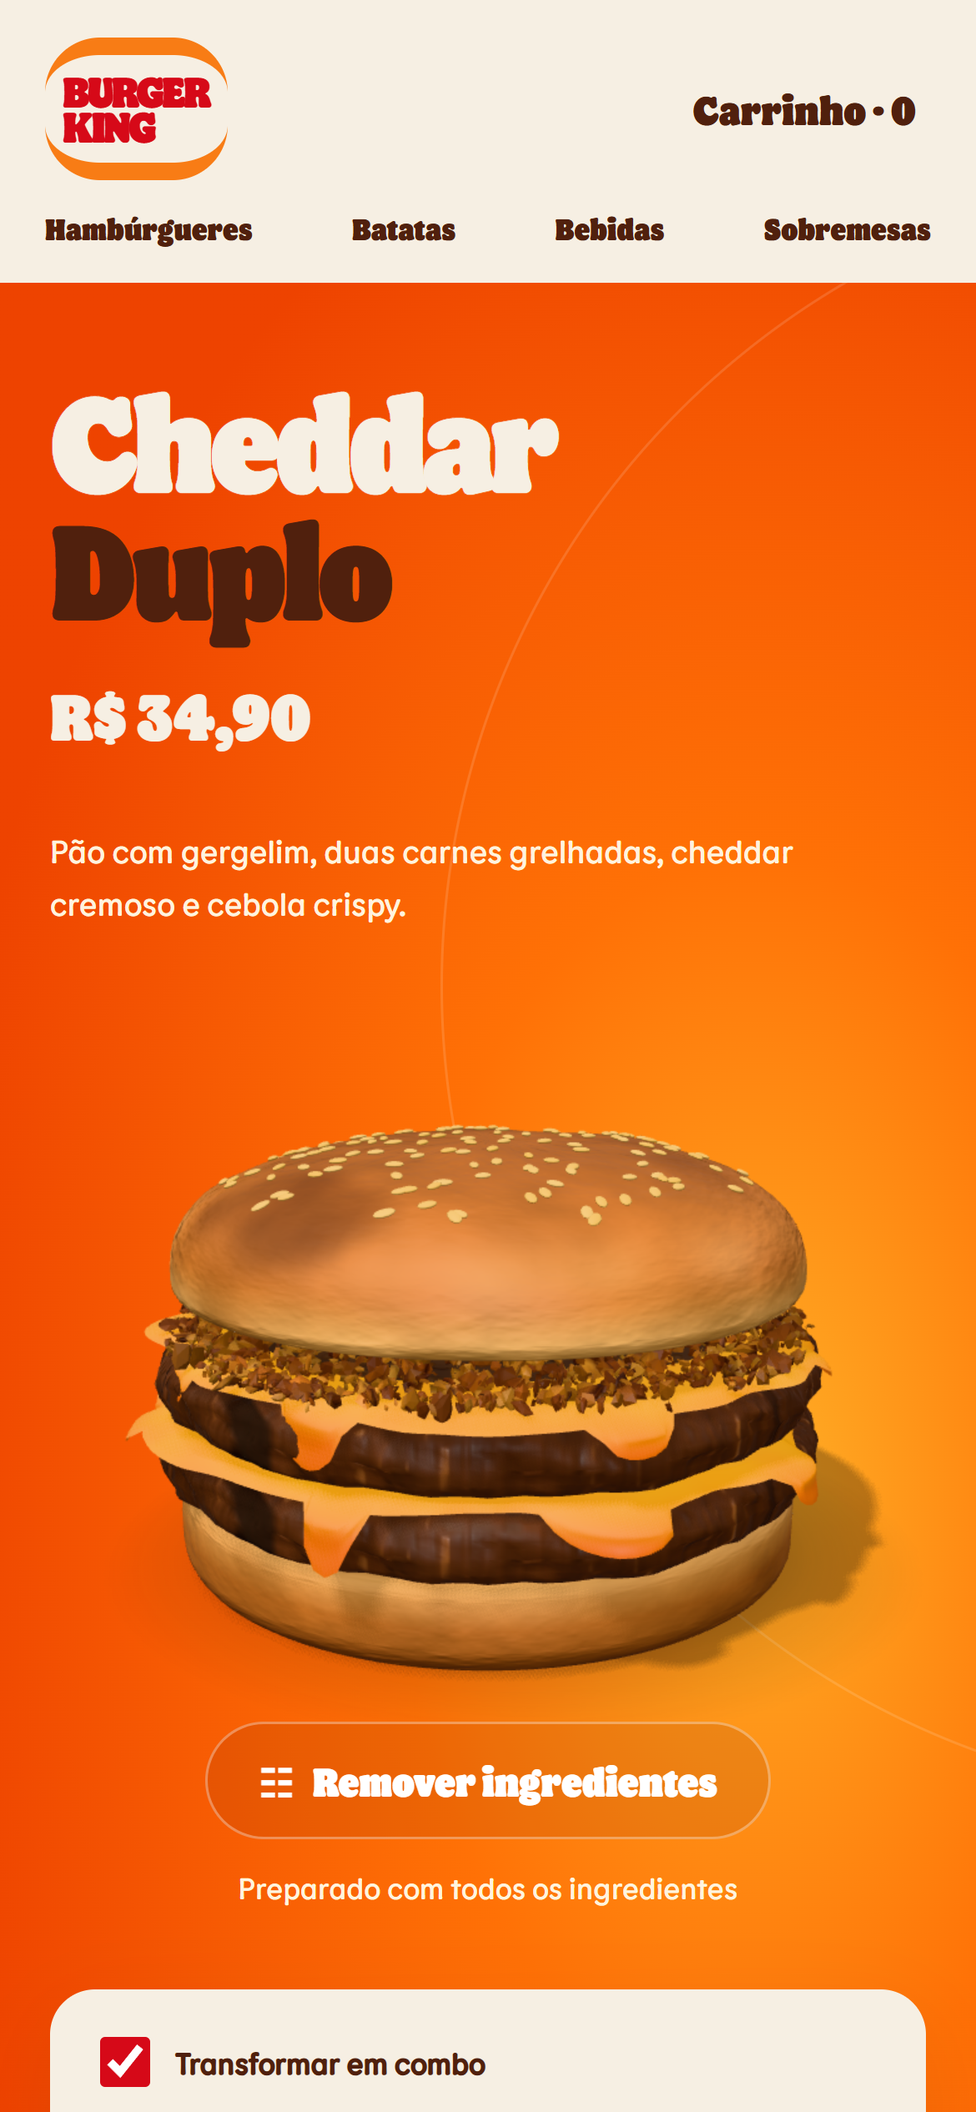
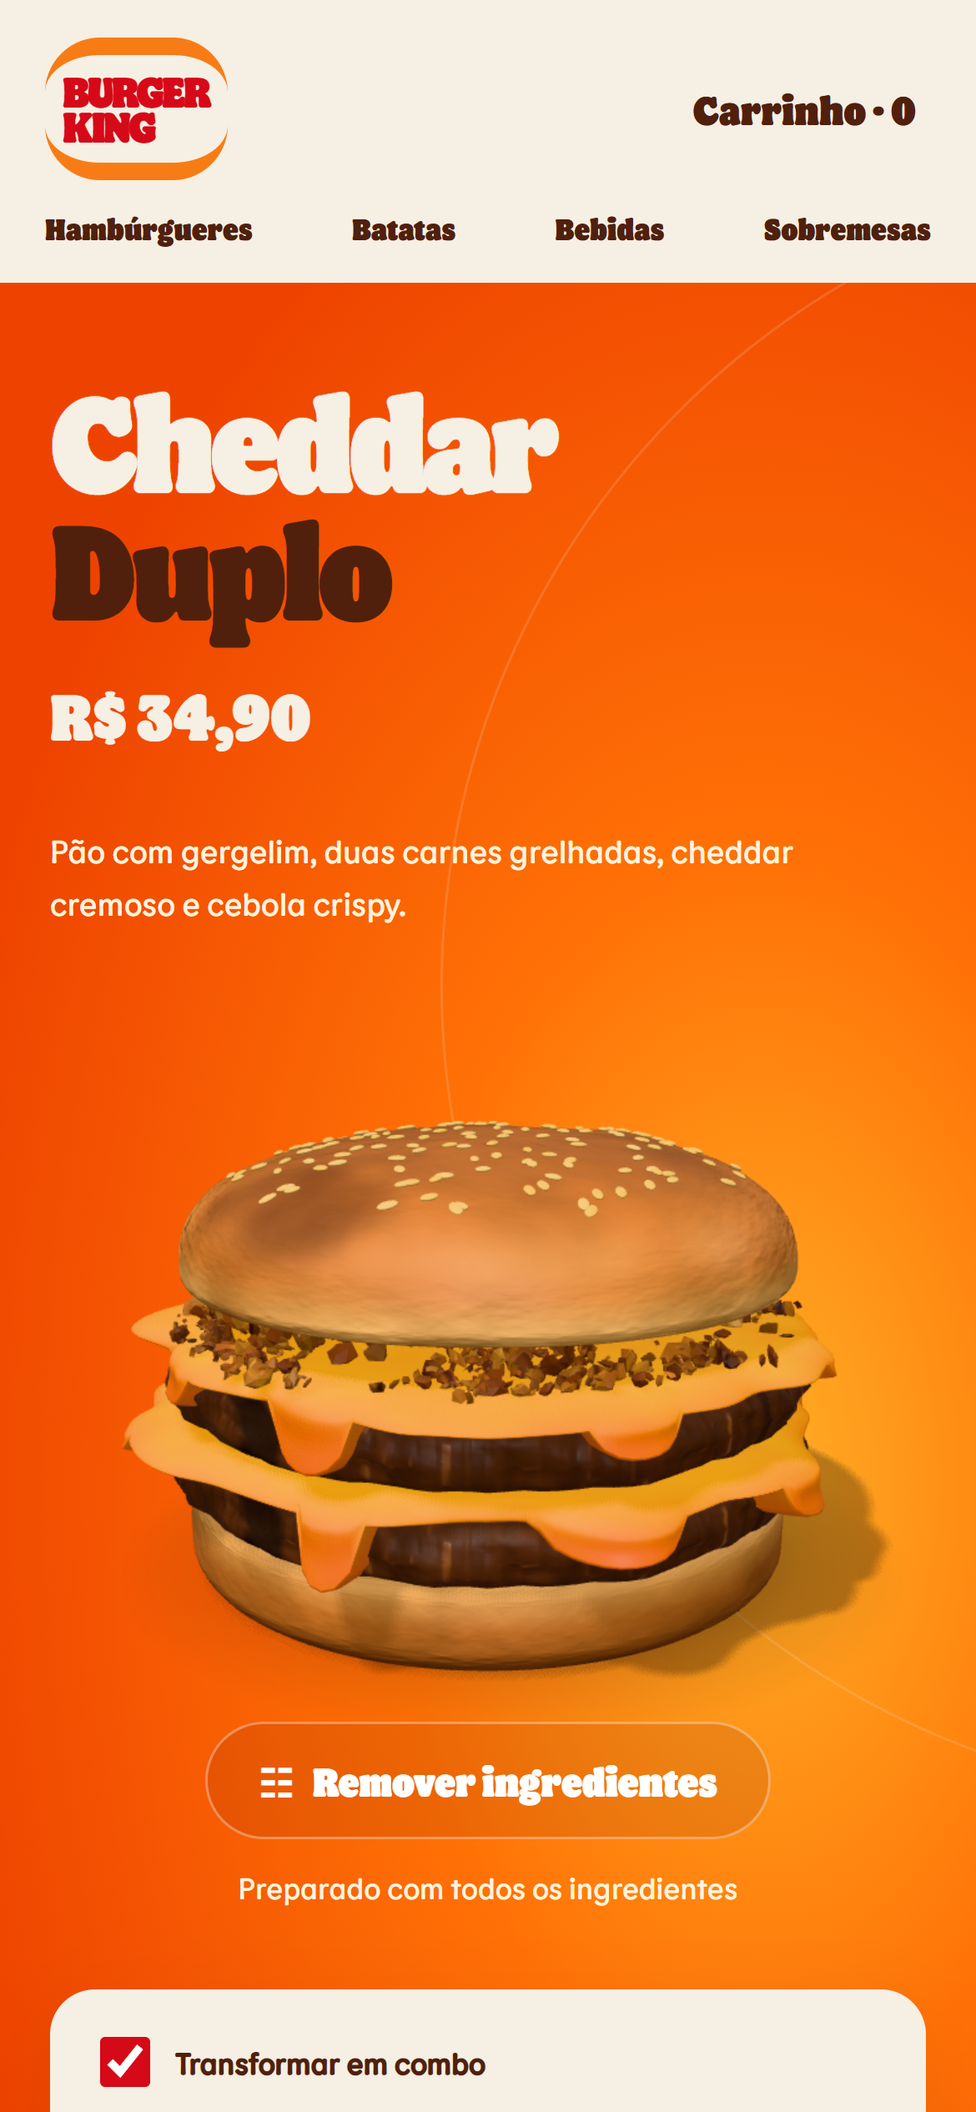
feat: thicker cheddar and gappier crispy onion (ticket 04 review, round 2)
Product owner feedback: the cheddar was too thin, and the crispy onion too evenly
filled, which read as fake.

- cheddar: a thick soft slab (Camada height 0.035 -> 0.07) with a fat rounded lip
  rolling over the patty; wider, thicker drips with blunt rounded tips that curl
  back in; lumpy outline, overhang and per-Camada seed kept. 13.8k triangles
  (was 13.1k).
- crispyOnion: ~1700 pieces (was 3800) gathered in clumps by a noise mask, with
  bare patches where the cheddar shows through; dark floor disc removed.
  36.8k triangles (was 82.2k).
- SVG fallback: thicker cheddar, gaps between the onion crumbs.

Whopper captures identical (16 captures, max diff 0). New captures and
side-by-side sheet in .scratch/cheddar-duplo/capturas/04/. Ticket 04 stays open.

Changed region(s): [[0.1231, 0.5616, 0.9231, 0.78], [0.2154, 0.5304, 0.7692, 0.5928], [0.6462, 0.78, 0.7385, 0.8112]]

diff --git a/prototype/src/scene/layer-models.js b/prototype/src/scene/layer-models.js
@@ -468,32 +468,36 @@ function onion() {
   return single(group);
 }
 
-// Cheddar (Cheddar Duplo): creamy melted cheddar sauce, more orange and more liquid than the
-// Whopper's slice. A glossy sheet over the patty that rolls over its edge and runs down the
-// side in long rounded drips. One grid around the burger: rings over the top, then a curtain
-// hanging from the rim, whose length by angle is the drips' outline. The outline is lumpy,
-// not round, and overhangs the patty more in some places than others. Each Camada (cheddar1,
-// cheddar2) gets its own outline and drips, from a seed fixed by its id.
-const CHEDDAR_HEIGHT = 0.035;
-const CHEDDAR_ROLL = 0.05; // drop over which the sauce rolls out over the patty's rounded edge
+// Cheddar (Cheddar Duplo): a thick slab of soft melted cheddar, more orange and more liquid
+// than the Whopper's slice. A glossy body over the patty whose edge is a fat rounded lip that
+// rolls over the patty's edge and runs down the side in thick rounded drips. One grid around
+// the burger: rings over the top, then a curtain from the rim (the lip, then the drips), whose
+// length by angle is the drips' outline; the curtain curls back in at its tip, so the edge
+// reads as a body, not a sheet. The outline is lumpy, not round, and overhangs the patty more
+// in some places than others. Each Camada (cheddar1, cheddar2) gets its own outline and
+// drips, from a seed fixed by its id.
+const CHEDDAR_HEIGHT = 0.07;
+const CHEDDAR_ROLL = 0.06; // drop over which the sauce rolls out over the patty's rounded edge
+const CHEDDAR_LIP = 0.032; // radius of the rounded lip at the slab's edge
 function cheddar(camada = {}) {
   const seed = [...(camada.id ?? 'cheddar')].reduce((h, c) => (h * 31 + c.charCodeAt(0)) % 9973, 7);
   const rnd = random(seed);
   const count = 8;
   const drips = Array.from({ length: count }, (_, k) => ({
     a: ((k + 0.15 + rnd() * 0.7) / count) * Math.PI * 2,
-    width: 0.07 + rnd() * 0.08, // half-width, radians (~1-2 cm at the patty's edge)
-    length: 0.06 + rnd() ** 1.3 * 0.12,
+    width: 0.08 + rnd() * 0.09, // half-width, radians (~1-2 cm at the patty's edge)
+    length: 0.07 + rnd() ** 1.3 * 0.14,
   }));
+  const base = 2 * CHEDDAR_LIP + 0.012; // the lip's own drop, where there is no drip
   /** Hang below the rim and outward bulge (the drip's bead) at angle a. */
   const run = (a) => {
-    let hang = 0.022, bead = 0;
+    let hang = base, bead = 0;
     for (const d of drips) {
       const t = Math.atan2(Math.sin(a - d.a), Math.cos(a - d.a)) / d.width;
       if (Math.abs(t) >= 1) continue;
       const k = 1 - t * t;
-      hang = Math.max(hang, 0.022 + d.length * Math.sqrt(k)); // rounded tip
-      bead = Math.max(bead, 0.016 * k);
+      hang = Math.max(hang, base + d.length * k ** 0.35); // blunt, rounded tip
+      bead = Math.max(bead, 0.03 * k);
     }
     return { hang, bead };
   };
@@ -503,7 +507,9 @@ function cheddar(camada = {}) {
   const rim = (a) => 1 + 0.09 * wave(a, 1.3, 3, 0) + 0.05 * wave(a, 2.7, 2, 7) + 0.03 * wave(a, 5, 2, 3);
   const spread = (a) => smoothstep(-0.45, 0.45, wave(a, 1.8, 2, 5));
 
-  const segments = 192, top = 16, curtain = 18;
+  // Curtain rows: `lipRows` over the lip, `tipRows` over the curled tip, the rest between.
+  const segments = 192, top = 16, lipRows = 6, tipRows = 6, curtain = lipRows + 8 + tipRows;
+  const shoulder = 0.008;
   const positions = [], colours = [], indices = [];
   const colour = new Color();
   for (let i = 0; i <= top + curtain; i++)
@@ -513,19 +519,28 @@ function cheddar(camada = {}) {
       const edge = rim(a);
       let r, y, drop = 0;
       if (i <= top) {
-        // The sheet: nearly flat, pooled ripples, sloping just before the rim.
+        // The top: nearly flat, pooled ripples, a soft shoulder just before the rim.
         const f = i / top;
         r = edge * f;
-        const ripple = 0.007 * (fbm(c * r * 4 + seed, s * r * 4, 0, { octaves: 2, seed: 73 }) - 0.5) * 2;
-        y = CHEDDAR_HEIGHT + ripple * (1 - f) - 0.012 * smoothstep(0.75, 1, f);
+        const ripple = 0.009 * (fbm(c * r * 4 + seed, s * r * 4, 0, { octaves: 2, seed: 73 }) - 0.5) * 2;
+        y = CHEDDAR_HEIGHT + ripple * (1 - f) - shoulder * smoothstep(0.8, 1, f);
       } else {
-        // The curtain: rolls outward over the edge, then hangs straight.
+        // The curtain: a fat rounded lip that rolls outward over the edge, hangs down in the
+        // drips, swells into a bead and curls back in under itself at the tip.
         const { hang, bead } = run(a);
-        drop = ((i - top) / curtain) * hang;
+        const tip = Math.min(CHEDDAR_LIP * 1.3, hang * 0.45);
+        const k = i - top;
+        drop = k <= lipRows
+          ? (k / lipRows) * CHEDDAR_LIP
+          : k >= curtain - tipRows
+            ? hang - tip + ((k - (curtain - tipRows)) / tipRows) * tip
+            : CHEDDAR_LIP + ((k - lipRows) / (curtain - tipRows - lipRows)) * (hang - tip - CHEDDAR_LIP);
+        const lip = CHEDDAR_LIP * Math.sin(Math.min(drop / CHEDDAR_LIP, 1) * (Math.PI / 2));
         const out = (0.015 + 0.13 * spread(a) + bead) * Math.sin(Math.min(drop / CHEDDAR_ROLL, 1) * (Math.PI / 2));
-        // Thinning to a rounded bead at the tip.
-        r = edge + out + bead * 0.6 * smoothstep(hang * 0.6, hang, drop);
-        y = CHEDDAR_HEIGHT - 0.012 - drop;
+        const swell = bead * 0.7 * smoothstep(hang * 0.5, hang - tip * 0.5, drop);
+        const curl = Math.cos(smoothstep(hang - tip, hang, drop) * (Math.PI / 2));
+        r = edge + (lip + out + swell) * curl;
+        y = CHEDDAR_HEIGHT - shoulder - drop;
       }
       positions.push(c * r, y, s * r);
       // Deeper orange where it runs thick, slightly yellower thin over the top; mottled.
@@ -558,10 +573,9 @@ function cheddar(camada = {}) {
 
 // Cebola crispy (Cheddar Duplo): a loose heap of fried onion crumbs and short curled
 // strands under the top bun, golden to dark brown. No continuous body: the heap is only
-// pieces, stacked in a few loose tiers, so the silhouette is ragged, light shows through
-// the gaps and some bits spill over the rim onto the cheddar. A small dark disc well
-// inside the rim stands in for the shadow at the bottom of the heap (and keeps the Camada
-// solid to the eye from above). Pieces are indexed low-poly solids drawn flat-shaded,
+// pieces, gathered in clumps with bare patches between them where the cheddar below shows
+// through (not an even carpet), stacked in loose tiers, so the silhouette is ragged and
+// some bits spill over the rim onto the cheddar. Pieces are indexed low-poly solids drawn flat-shaded,
 // sharing one material (texture x vertex colour), baked into one mesh.
 const CRISPY_ONION_HEIGHT = 0.12;
 function crispyOnion() {
@@ -572,6 +586,8 @@ function crispyOnion() {
   // Top of the heap at a radius fraction: domed, lumpy, thinning out towards the rim.
   const lump = (x, z) => fbm(x * 4 + 3, z * 4, 0, { octaves: 2, seed: 102 });
   const top = (x, z, f) => (0.05 + 0.04 * (1 - f * f) + 0.03 * (lump(x, z) - 0.5)) * smoothstep(1.08, 0.7, f);
+  // Where the pieces gather (1) and where the cheddar below shows through (0).
+  const clump = (x, z) => smoothstep(0.3, 0.46, fbm(x * 2.6 + 7, z * 2.6, 0, { octaves: 3, seed: 103 }));
 
   // Index-only templates (shared corners): a crumb is a jagged icosahedron, a strand a thin
   // curled tube; both are re-shaped per piece.
@@ -603,31 +619,28 @@ function crispyOnion() {
     pieces.push(geometry);
   };
 
-  // Shadow at the bottom of the heap, hidden under the pieces.
-  const floor = polarSheet({ rings: 4, segments: 40, uvRadius: 1, edge: (a) => edge(a) * 0.8, lift: () => 0.012 }).deleteAttribute('normal');
-  const index = floor.index.array;
-  for (let i = 0; i < index.length; i += 3) [index[i + 1], index[i + 2]] = [index[i + 2], index[i + 1]];
-  floor.setAttribute('color', new BufferAttribute(new Float32Array(floor.attributes.position.count * 3).map((_, i) => [0.09, 0.04, 0.015][i % 3]), 3));
-  pieces.push(floor);
-
-  for (let k = 0; k < 3800; k++) {
+  for (let placed = 0; placed < 1700; ) {
     const a = rnd() * Math.PI * 2;
     const rim = edge(a);
     // Uniform over the disc; one in eight lands past the rim and slumps down onto the cheddar.
     const spill = rnd() < 0.12;
     const f = spill ? 0.93 + rnd() * 0.12 : Math.sqrt(rnd()) * 0.97;
     const x = Math.cos(a) * rim * f, z = Math.sin(a) * rim * f;
-    const height = Math.max(top(x, z, f), 0.012);
+    // Clumps and bare patches: where the mask is low, few or no pieces land.
+    const m = clump(x, z);
+    if (rnd() > m) continue;
+    placed++;
+    const height = Math.max(top(x, z, f) * (0.35 + 0.65 * m), 0.012);
     // Anywhere from the bottom of the heap to its top (more of them near the top).
     const t = spill ? rnd() * 0.4 : Math.sqrt(rnd());
     const y = 0.008 + (height - 0.008) * t;
     const strand = rnd() < 0.4;
     turn.set((rnd() - 0.5) * (strand ? 1.6 : Math.PI), rnd() * Math.PI * 2, (rnd() - 0.5) * (strand ? 1.6 : Math.PI));
     if (strand) {
-      const radius = 0.02 + rnd() * 0.028;
+      const radius = 0.022 + rnd() * 0.03;
       size.set(radius, radius * (0.45 + rnd() * 0.3), radius);
     } else {
-      const s = 0.013 + rnd() ** 2 * 0.024;
+      const s = 0.015 + rnd() ** 2 * 0.026;
       size.set(s * (0.8 + rnd() * 0.6), s * (0.35 + rnd() * 0.3), s * (0.8 + rnd() * 0.6));
     }
     place(strand ? strandBase : crumbBase, Math.min(y, CRISPY_ONION_HEIGHT - 0.015), x, z, 1 - t, !strand);

diff --git a/prototype/src/art.js b/prototype/src/art.js
@@ -3,8 +3,9 @@ const svg=(body)=>`<svg viewBox="0 0 420 145" aria-hidden="true"><defs><linearGr
 // Sauce drizzle shared by ketchup and maionese; only the colours differ.
 const sauce=(fill,stroke,shine)=>svg(`<path d="M28 67Q70 38 112 56Q152 33 198 53Q245 34 290 53Q346 38 392 67Q377 89 354 78Q343 106 328 80Q299 92 269 79Q238 105 218 80Q177 90 153 80Q123 106 108 79Q58 94 28 67Z" fill="${fill}" stroke="${stroke}" stroke-width="2"/><path d="M50 63Q115 51 166 63T285 63T370 64" fill="none" stroke="${shine}" stroke-width="5" stroke-linecap="round"/>`);
 // Cebola crispy: a loose heap of fried crumbs and short curled strands, no solid body: dark
-// pieces at the bottom of the heap, lighter ones on top, a few spilling past the ends.
-function crispyOnion(){let s=7;const r=()=>(s=(s*16807)%2147483647)/2147483647,cols=['#6e3a16','#8a4c1c','#a8642a','#b87430','#c98a3a','#dca04a','#eab866'];let c='';for(let i=0;i<300;i++){const t=i/300,x=26+r()*368,d=Math.abs(x-210)/184,top=88-(1-d*d)*34-r()*8,y=96-(96-top)*(.25+.75*t)+r()*4,k=Math.min(6,Math.floor(t*4+r()*3.5)),f=cols[k];if(r()<.35){const a=r()*6.3,l=8+r()*9,q=r()*10-5;c+=`<path d="M${(x-Math.cos(a)*l).toFixed(1)} ${(y-Math.sin(a)*l*.4).toFixed(1)}q${(Math.cos(a)*l+q).toFixed(1)} ${(q-3).toFixed(1)} ${(Math.cos(a)*l*2).toFixed(1)} ${(Math.sin(a)*l*.8).toFixed(1)}" fill="none" stroke="${f}" stroke-width="${(3+r()*2.2).toFixed(1)}" stroke-linecap="round"/>`;}else{const n=5,z=4.5+r()*5.5;let p='';for(let v=0;v<n;v++){const a=v/n*6.283+r()*.6,m=z*(.55+r()*.6);p+=`${v?'L':'M'}${(x+Math.cos(a)*m).toFixed(1)} ${(y+Math.sin(a)*m*.65).toFixed(1)}`;}c+=`<path d="${p}Z" fill="${f}"/>`;}}return svg(c);}
-// Cheddar (Cheddar Duplo): creamy orange sauce with rounded drips over the edge.
-function cheddar(){const drips=[[52,22],[110,34],[176,18],[238,40],[300,26],[362,30]].map(([x,l])=>`<path d="M${x-11} 78V${78+l}a11 11 0 0 0 22 0V78Z" fill="#f08a06"/>`).join('');return svg(`${drips}<path d="M14 66Q210 34 406 66Q412 80 396 84Q210 102 24 84Q8 80 14 66Z" fill="#f59a0c"/><path d="M34 64Q210 42 386 64" stroke="#ffc24a" fill="none" stroke-width="4"/>`);}
+// pieces at the bottom of the heap, lighter ones on top, a few spilling past the ends; bare
+// patches between the clumps.
+function crispyOnion(){let s=7;const r=()=>(s=(s*16807)%2147483647)/2147483647,cols=['#6e3a16','#8a4c1c','#a8642a','#b87430','#c98a3a','#dca04a','#eab866'];let c='';for(let i=0;i<300;i++){const t=i/300,x=26+r()*368,d=Math.abs(x-210)/184,top=88-(1-d*d)*34-r()*8,y=96-(96-top)*(.25+.75*t)+r()*4,k=Math.min(6,Math.floor(t*4+r()*3.5)),f=cols[k];if(Math.sin(x*.05+1.3)+Math.sin(x*.13+.4)>1.05&&t>.3)continue;if(r()<.35){const a=r()*6.3,l=8+r()*9,q=r()*10-5;c+=`<path d="M${(x-Math.cos(a)*l).toFixed(1)} ${(y-Math.sin(a)*l*.4).toFixed(1)}q${(Math.cos(a)*l+q).toFixed(1)} ${(q-3).toFixed(1)} ${(Math.cos(a)*l*2).toFixed(1)} ${(Math.sin(a)*l*.8).toFixed(1)}" fill="none" stroke="${f}" stroke-width="${(3+r()*2.2).toFixed(1)}" stroke-linecap="round"/>`;}else{const n=5,z=4.5+r()*5.5;let p='';for(let v=0;v<n;v++){const a=v/n*6.283+r()*.6,m=z*(.55+r()*.6);p+=`${v?'L':'M'}${(x+Math.cos(a)*m).toFixed(1)} ${(y+Math.sin(a)*m*.65).toFixed(1)}`;}c+=`<path d="${p}Z" fill="${f}"/>`;}}return svg(c);}
+// Cheddar (Cheddar Duplo): a thick slab of orange melted cheddar with fat rounded drips.
+function cheddar(){const drips=[[52,22],[110,34],[176,18],[238,40],[300,26],[362,30]].map(([x,l])=>`<path d="M${x-14} 84V${86+l}a14 14 0 0 0 28 0V84Z" fill="#f08a06"/>`).join('');return svg(`${drips}<path d="M14 58Q210 24 406 58Q416 80 398 92Q210 114 22 92Q4 80 14 58Z" fill="#f59a0c"/><path d="M34 56Q210 34 386 56" stroke="#ffc24a" fill="none" stroke-width="5"/>`);}
 export function art(id){if(id==='crispyOnion')return crispyOnion();if(id==='cheddar')return cheddar();if(id==='ketchup')return sauce('#c8240f','#8f1708','#f0705a');if(id==='mayo')return sauce('#fbf1d6','#dcc89a','#ffffff');if(id==='top'){let seeds='';for(let i=0;i<42;i++){const x=45+(i*73%325),y=47+(i*31%40);seeds+=`<ellipse cx="${x}" cy="${y}" rx="4" ry="1.7" fill="#ffeab1" transform="rotate(${i*47%100-50} ${x} ${y})"/>`;}return svg(`<path d="M20 109C24 4 383 4 400 109Q210 154 20 109" fill="url(#bun)"/><path d="M32 106Q210 145 388 106" fill="none" stroke="#eaa251" stroke-width="5"/>${seeds}`)}if(id==='bottom')return svg('<path d="M23 63Q210 32 397 63L390 107Q210 158 30 106Z" fill="url(#bun)"/><ellipse cx="210" cy="65" rx="187" ry="28" fill="#edaf56"/><path d="M35 101Q210 139 382 104" fill="none" stroke="#a74c15" stroke-width="5"/>');if(id==='meat')return svg('<path d="M15 63Q25 48 45 49Q80 35 109 48Q140 33 170 46Q200 34 230 44Q270 35 300 45Q350 37 397 61L405 88Q390 125 345 118Q300 133 270 120Q210 134 166 121Q120 133 87 118Q39 126 17 98Z" fill="url(#meat)"/><path d="M37 63L82 95M95 56L145 107M165 54L215 107M240 54L285 106M315 57L362 96" stroke="#21110b" stroke-width="8" stroke-linecap="round"/><path d="M28 66Q210 28 395 66" fill="none" stroke="#ae6336" stroke-width="5"/>');if(id==='cheese')return svg('<path d="M16 64L166 40L399 62L350 89L305 120L251 81L198 104L135 76L79 108L28 81Z" fill="url(#cheese)"/><path d="M32 64L168 47L380 64" stroke="#ffe774" fill="none" stroke-width="4"/>');if(id==='lettuce'){let l='';for(let i=0;i<14;i++){const x=22+i*28,y=64+(i%3)*8;l+=`<path d="M${x} ${y}q-15-22 5-30q13-14 24 4q24-8 27 10q13 20-13 29q-10 19-26 0q-20 8-17-13" fill="${['#639a1c','#8eb72b','#447b16'][i%3]}" stroke="#a4c747" stroke-width="2"/>`;}return svg(l)}if(id==='tomato')return svg([75,192,313].map(x=>`<ellipse cx="${x}" cy="75" rx="67" ry="24" fill="#c12a0f"/><ellipse cx="${x}" cy="67" rx="66" ry="23" fill="#f34820" stroke="#ff8060" stroke-width="3"/><ellipse cx="${x}" cy="66" rx="45" ry="13" fill="#d33215"/><path d="M${x-35} 66h70M${x} 56v22" stroke="#ffad61" stroke-width="3"/>`).join(''));if(id==='onion')return svg([80,198,318].map(x=>`<ellipse cx="${x}" cy="73" rx="70" ry="23" fill="#ead7a8"/><ellipse cx="${x}" cy="67" rx="65" ry="20" fill="#fff4d3"/><ellipse cx="${x}" cy="67" rx="51" ry="13" fill="#fff4d3" stroke="#cdb79a" stroke-width="3"/>`).join(''));return svg([65,150,245,330].map((x,i)=>`<ellipse cx="${x}" cy="70" rx="44" ry="18" fill="#517219"/><ellipse cx="${x}" cy="65" rx="43" ry="16" fill="#93a636" stroke="#466919" stroke-width="4"/><ellipse cx="${x}" cy="65" rx="24" ry="8" fill="#bdc866"/>`).join(''))}

diff --git a/.scratch/cheddar-duplo/issues/04-revisao-cheddar-duplo.md b/.scratch/cheddar-duplo/issues/04-revisao-cheddar-duplo.md
@@ -17,3 +17,5 @@
 - 2026-10-10 (responsável pelo produto): o cheddar está muito circular; deformar mais o formato, mantendo o cheddar passando da carne.
 - 2026-10-10 (agente): os dois ajustes foram aplicados e aguardam nova aprovação. Cebola crispy: sem o disco-base liso; agora é um monte solto de ~3.800 farelos facetados e fios curtos, em camadas, mais escuros no fundo, com contorno irregular, vãos entre as peças e pedaços caindo sobre o cheddar (57,6 mil vértices, antes 74 mil; triângulos de 25 mil para 82 mil). O fallback SVG da cebola também virou farelos soltos. Cheddar: contorno disforme (bojos e recuos de tamanhos diferentes), avançando sobre a carne mais em uns pontos que em outros; os escorridos continuam, e cada cheddar tem seu formato. Whopper idêntico (16 capturas, diferença máxima 1/255). Capturas novas e folha lado a lado em `capturas/04/`.
 - 2026-10-10 (responsável pelo produto): o rodapé cobrindo os chips no celular tem que ser corrigido. Corrigido em `2404e93`: no celular o rodapé é uma barra opaca de uma linha (a nota de preço some), o palco sobe para o espaço vazio acima do hambúrguer aberto e a bandeja ficou mais compacta; todos os chips dos dois produtos aparecem acima do rodapé em 390 × 844. O palco mantém 450 px, porque com menos as camadas finas do Whopper aberto ficam com área de toque abaixo de 24 px. Capturas 390 × 844 e folha lado a lado refeitas.
+- 2026-10-10 (responsável pelo produto): o cheddar está muito fino; precisa de uma espessura mais volumosa. A cebola crispy pode ter algumas falhas, para não ficar tão "preenchida" (parece falso).
+- 2026-10-10 (agente): os dois ajustes foram aplicados e aguardam nova aprovação. Cheddar: virou um corpo grosso, com borda arredondada (lábio de ~2 mm) que rola sobre a carne; os escorridos ficaram mais largos e grossos, com ponta arredondada que se dobra para dentro; contorno irregular, avanço sobre a carne e formato por Camada mantidos (altura da camada 0,035 -> 0,07). Cebola crispy: ~1.700 pedaços (antes 3.800) em montinhos, com vãos onde o cheddar aparece por baixo, e sem o disco escuro de fundo; triângulos de 82 mil para 37 mil. O fallback SVG acompanha (cheddar mais grosso, vãos entre os farelos). Whopper idêntico (16 capturas, diferença 0). Capturas e folha lado a lado refeitas em `capturas/04/`.

diff --git a/prototype/README.md b/prototype/README.md
@@ -30,7 +30,7 @@ Os testes sobem o próprio servidor na porta 4173 (mude com `PW_PORT`). O Chrome
 - `index.html`: marcação da página.
 - `src/main.js`: renderização, grade de produtos, eventos, arrasto, abrir/fechar Alterar ingredientes, carrinho. Escolher outro produto descarta as cenas e os botões das camadas e os recria a partir da Receita dele (uma cena por palco). Não conhece Three.js.
 - `src/scene/burger-scene.js`: módulo de cena do hambúrguer (Three.js/WebGL): um contexto por palco, câmera ~15° acima, luz do alto à esquerda, sombras de contato, transições abrir/compactar e a área na tela de cada camada, usada para posicionar os botões invisíveis.
-- `src/scene/layer-models.js`: modelo 3D de cada camada: perfis torneados e folhas polares com ruído, cor por vértice, gergelim, fatias e anéis unidos numa malha por camada. O cheddar do Cheddar Duplo (`cheddar`, de contorno irregular, escorrendo pelas bordas; cada Camada com seu contorno e seus fios, por semente fixa no id) é separado do queijo do Whopper (`cheese`); a cebola crispy (`crispyOnion`) é só um monte solto de farelos e fios curtos, sem corpo contínuo.
+- `src/scene/layer-models.js`: modelo 3D de cada camada: perfis torneados e folhas polares com ruído, cor por vértice, gergelim, fatias e anéis unidos numa malha por camada. O cheddar do Cheddar Duplo (`cheddar`, um corpo grosso de borda arredondada e contorno irregular, escorrendo pelas bordas; cada Camada com seu contorno e seus fios, por semente fixa no id) é separado do queijo do Whopper (`cheese`); a cebola crispy (`crispyOnion`) é só farelos e fios curtos soltos, em montinhos com vãos onde o cheddar aparece, sem corpo contínuo.
 - `src/scene/noise.js`: ruído determinístico (semente fixa), usado pelos modelos e pelas texturas.
 - `src/scene/texture-recipes.js`: receitas das texturas geradas por código (miolo, carne grelhada, grão da casca, tomate, picles, alface, cebola frita, sombra de contato), sem Three.js nem DOM. Nenhuma imagem de ingrediente é baixada.
 - `src/scene/texture-worker.js` e `src/scene/textures.js`: as receitas são pintadas em dois Web Workers enquanto a página monta a geometria e compila os shaders; `textures.js` entrega as texturas e avisa quando estão prontas (sem workers, pinta na própria página).
